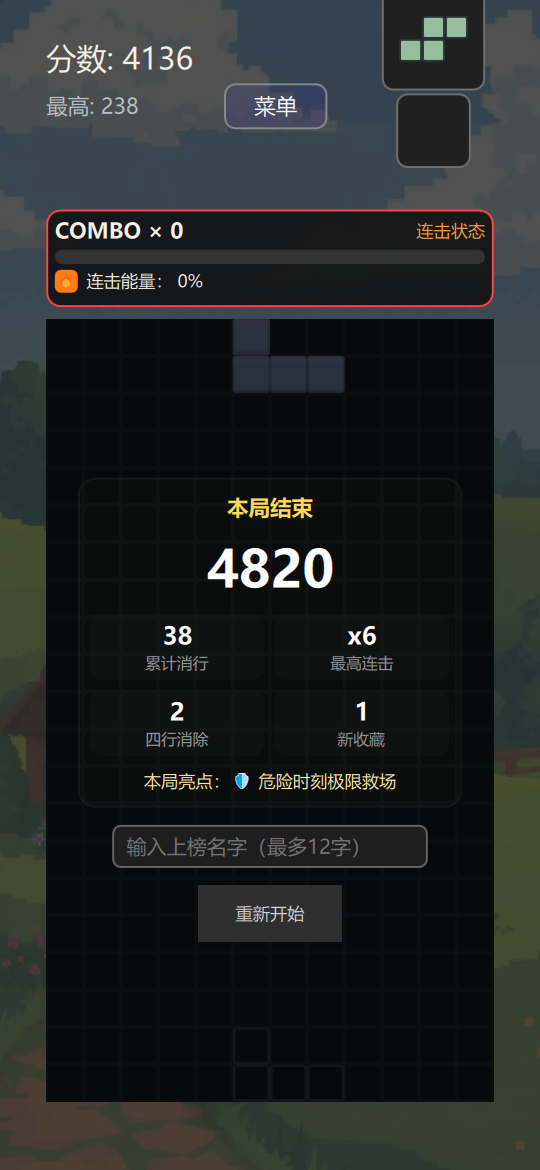
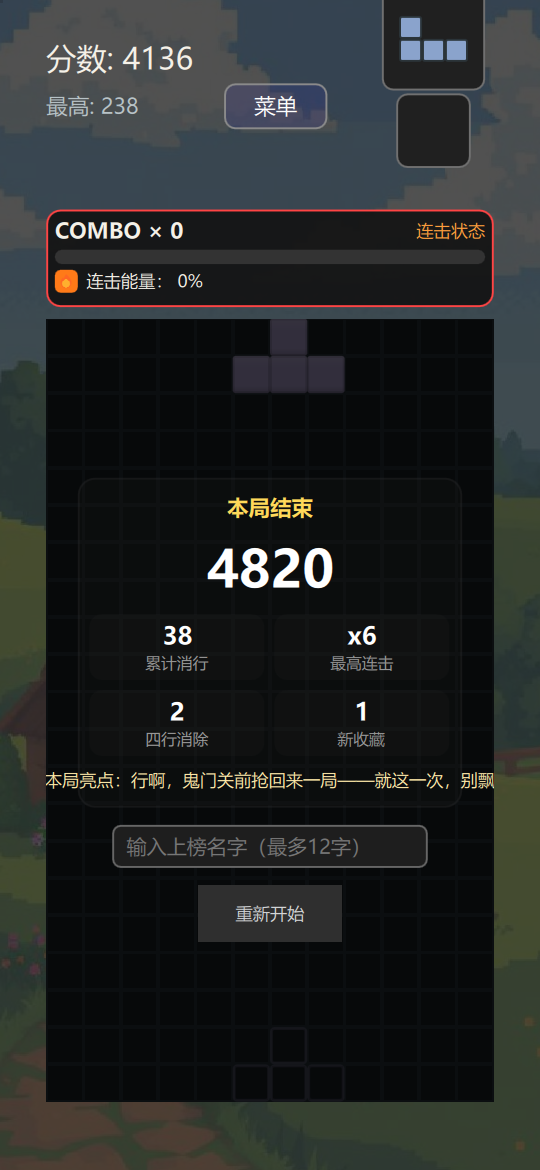
本局亮点改毒舌评语（用户要求恶毒/毒舌）：30条规则重排——真灾难(零行/短命局)最高优先→高光压制平庸(救场/B2B三连/多四消/大满贯先夸，别被时长梗抢戏)→菜但努力→平庸阴阳→傲慢表扬收尾；修残留拼接残渣与错字；recap实测截图；补丁v25

diff --git a/Main.qml b/Main.qml
@@ -1274,67 +1274,80 @@ ApplicationWindow {
         toastTimer.restart()
     }
     // 结算页「本局亮点」：取徽章之最（clutch > flow > precise），无徽章回退战绩句
-    // 结算页「本局亮点」：数据驱动的多档规则表，按稀有度/戏剧性从上往下短路取首条。
-    // 数据源全是本局统计（徽章/四消/B2B/连击/时长/消行/解锁），结算时即查即得
+    // 结算页「本局亮点」：毒舌评语规则表。排序 = 真惨（短命/零行）最优先 → 高光压制平庸嘲讽
+    // → 普通惨 → 平庸阴阳 → 傲慢表扬收尾。数据源全是本局统计，结算时即查即得
     readonly property var recapRules: [
-        { c: function() { return gameBadges.indexOf("clutch") !== -1 },
-          t: function() { return "🛡 危险时刻极限救场" } },
-        { c: function() { return b2bCount >= 3 },
-          t: function() { return "👑 B2B 三连击，教科书级发挥" } },
-        { c: function() { return tetrisCount >= 4 },
-          t: function() { return "🧱 四消机器，单局 " + tetrisCount + " 次四行消除" } },
-        { c: function() { return gameBadges.indexOf("flow") !== -1 && maxCombo >= 8 },
-          t: function() { return "🌊行云流水，最高 x" + maxCombo + " 不断档" } },
-        { c: function() { return gameBadges.indexOf("grandSlam") !== -1 },
-          t: function() { return "🌈 大满贯：1/2/3/4 消全数打穿" } },
-        { c: function() { return gameBadges.indexOf("flow") !== -1 },
-          t: function() { return "🌊 行云流水未涉险境" } },
-        { c: function() { return gameBadges.indexOf("precise") !== -1 },
-          t: function() { return "🎯 落位分毫不差" } },
-        { c: function() { return b2bCount >= 2 },
-          t: function() { return "💥 背靠背 x" + b2bCount + "，火力全开" } },
-        { c: function() { return tetrisCount >= 2 },
-          t: function() { return "🧱 打出 " + tetrisCount + " 次四行消除" } },
-        { c: function() { return playSeconds <= 90 && totalClearedLines >= 15 },
-          t: function() { return "⚡ 开局 90 秒消 " + totalClearedLines + " 行，闪电战" } },
-        { c: function() { return scoreTarget >= 20000 },
-          t: function() { return "💰 两万分巨局！" } },
-        { c: function() { return scoreTarget >= 10000 },
-          t: function() { return "💰 万分达成，手感滚烫" } },
-        { c: function() { return maxCombo >= 10 },
-          t: function() { return "🔥 连击 x" + maxCombo + "，连击大师本尊" } },
-        { c: function() { return maxCombo >= 5 },
-          t: function() { return "🔥 连击 x" + maxCombo + "，越战越勇" } },
-        { c: function() { return playSeconds >= 600 && totalClearedLines >= 40 },
-          t: function() { return "🕰 十分钟鏖战 " + totalClearedLines + " 行，耐力惊人" } },
-        { c: function() { return newUnlocks >= 2 },
-          t: function() { return "🖼 一局解锁 " + newUnlocks + " 张新背景" } },
-        { c: function() { return newUnlocks === 1 },
-          t: function() { return "🖼 解锁新背景收藏" } },
-        { c: function() { return maxCombo >= 3 },
-          t: function() { return "🔥 最高连击 x" + maxCombo } },
-        { c: function() { return tetrisCount === 1 },
-          t: function() { return "🧱 一次干脆利落的四行消除" } },
-        { c: function() { return b2bCount === 1 },
-          t: function() { return "💥 首次背靠背加成" } },
-        { c: function() { return totalClearedLines >= 20 },
-          t: function() { return "🧱 " + totalClearedLines + " 行稳定输出" } },
-        { c: function() { return playSeconds >= 300 },
-          t: function() { return "🕰 五分钟坚守，慢工出细活" } },
-        { c: function() { return scoreTarget >= 3000 },
-          t: function() { return "📈 " + scoreTarget + " 分，稳步上分" } },
-        { c: function() { return totalClearedLines === 0 && playSeconds >= 120 },
-          t: function() { return "🧍 开局不久便受阻，再接再厉" } },
+        // === 真灾难（无可争议，最优先）===
+        { c: function() { return totalClearedLines === 0 && playSeconds <= 20 },
+          t: function() { return "你搁这儿点外卖呢？方块还没热身就全军覆没了" } },
         { c: function() { return totalClearedLines === 0 },
-          t: function() { return "🌱 第一行从下一次开始" } },
-        { c: function() { return playSeconds <= 60 },
-          t: function() { return "⏱ 短平快的一局" } }
+          t: function() { return "0 行。棋盘表示它今天没被用过，建议卸载重装找找手感" } },
+        // === 高光压制平庸（有真高光先夸，别让时长梗抢戏）===
+        { c: function() { return gameBadges.indexOf("clutch") !== -1 },
+          t: function() { return "行啊，鬼门关前抢回来一局——就这一次，别飘" } },
+        { c: function() { return b2bCount >= 3 },
+          t: function() { return "B2B x" + b2bCount + "？今天键盘是充了电的吧" } },
+        { c: function() { return tetrisCount >= 4 },
+          t: function() { return tetrisCount + " 次四消，方块看了都想给你打工" } },
+        { c: function() { return gameBadges.indexOf("grandSlam") !== -1 },
+          t: function() { return "大满贯都打出来了，可算不像本人水准了" } },
+        { c: function() { return gameBadges.indexOf("flow") !== -1 && maxCombo >= 8 },
+          t: function() { return "x" + maxCombo + " 连击全程没进危险区——今天状态不错，明天估计没了" } },
+        { c: function() { return tetrisCount >= 2 },
+          t: function() { return tetrisCount + " 次四消，勉强算开了个窍" } },
+        { c: function() { return scoreTarget >= 20000 },
+          t: function() { return "两万分……行吧，这次允许你骄傲 3 秒钟" } },
+        { c: function() { return b2bCount >= 2 },
+          t: function() { return "背靠背 x" + b2bCount + "，有点东西但不多" } },
+        { c: function() { return gameBadges.indexOf("flow") !== -1 },
+          t: function() { return "行云流水，危险区都不认识你了" } },
+        // === 菜但努力（真惨之后，高光之前）===
+        { c: function() { return playSeconds <= 45 },
+          t: function() { return "这局短得像你的耐心。消了 " + totalClearedLines + " 行也好意思结算？" } },
+        { c: function() { return scoreTarget < 300 },
+          t: function() { return scoreTarget + " 分？排行榜底下给你留了座位的" } },
+        { c: function() { return totalClearedLines >= 1 && totalClearedLines < 5 },
+          t: function() { return "消了 " + totalClearedLines + " 行……进步空间比你的棋盘还空" } },
+        { c: function() { return maxCombo <= 1 && totalClearedLines >= 8 },
+          t: function() { return "消 " + totalClearedLines + " 行连击没上 2，你是一行一行挑着消的吗" } },
+        { c: function() { return playSeconds >= 300 && scoreTarget < 1500 },
+          t: function() { return "打这么久就这点分？效率低得让秒表都想退休" } },
+        { c: function() { return dangerLv >= 3 && tetrisCount === 0 },
+          t: function() { return "全程脸贴失败线蹦迪，全靠方块手下留情" } },
+        // === 平庸局（阴阳怪气区）===
+        { c: function() { return tetrisCount === 0 && totalClearedLines >= 10 },
+          t: function() { return "十几行了一个四消都没有，I 型方块见你绕道走" } },
+        { c: function() { return maxCombo >= 3 && maxCombo < 5 },
+          t: function() { return "连击 x" + maxCombo + "，刚找到感觉就断了，一如既往" } },
+        { c: function() { return newUnlocks === 0 && scoreTarget >= 1000 && scoreTarget < 3000 },
+          t: function() { return "不咸不淡 " + scoreTarget + " 分，背景都懒得为你解锁" } },
+        { c: function() { return gameBadges.indexOf("precise") !== -1 && totalClearedLines < 10 },
+          t: function() { return "落位是挺准的，可惜一共也没落几块" } },
+        // === 其余高光（傲慢表扬收尾）===
+        { c: function() { return playSeconds <= 90 && totalClearedLines >= 15 },
+          t: function() { return "90 秒消 " + totalClearedLines + " 行，手速可以，脑子跟上没有？" } },
+        { c: function() { return scoreTarget >= 10000 },
+          t: function() { return "万分到手，幸运女神今天确实路过你家" } },
+        { c: function() { return maxCombo >= 10 },
+          t: function() { return "连击 x" + maxCombo + "？嚯，今天手是自己的吗" } },
+        { c: function() { return maxCombo >= 5 },
+          t: function() { return "连击 x" + maxCombo + "，居然没手滑，太阳打西边出来了" } },
+        { c: function() { return gameBadges.indexOf("precise") !== -1 },
+          t: function() { return "精准落位，方块落得比你的计划还整齐" } },
+        { c: function() { return newUnlocks >= 2 },
+          t: function() { return "一局解锁 " + newUnlocks + " 张背景，收藏家倒是当得挺勤" } },
+        { c: function() { return totalClearedLines >= 20 },
+          t: function() { return totalClearedLines + " 行，稳是稳，就是稳得让人犯困" } },
+        { c: function() { return playSeconds >= 600 },
+          t: function() { return "磨了十分钟就这？耐力用来磨洋工倒是挺足" } },
+        { c: function() { return scoreTarget >= 3000 },
+          t: function() { return scoreTarget + " 分，凑合，我的标准向来很高" } }
     ]
     function recapHighlight() {
         for (var i = 0; i < recapRules.length; i++)
             if (recapRules[i].c())
                 return recapRules[i].t()
-        return "稳扎稳打的一局"
+        return "普通的一局，说你啥好呢"
     }
 
     // 震动三档：off 静音 / std 标准 / strong 加强（时长 1.8 倍）

diff --git a/leaderboard/apk/patch/Main.qml b/leaderboard/apk/patch/Main.qml
@@ -1274,67 +1274,80 @@ ApplicationWindow {
         toastTimer.restart()
     }
     // 结算页「本局亮点」：取徽章之最（clutch > flow > precise），无徽章回退战绩句
-    // 结算页「本局亮点」：数据驱动的多档规则表，按稀有度/戏剧性从上往下短路取首条。
-    // 数据源全是本局统计（徽章/四消/B2B/连击/时长/消行/解锁），结算时即查即得
+    // 结算页「本局亮点」：毒舌评语规则表。排序 = 真惨（短命/零行）最优先 → 高光压制平庸嘲讽
+    // → 普通惨 → 平庸阴阳 → 傲慢表扬收尾。数据源全是本局统计，结算时即查即得
     readonly property var recapRules: [
-        { c: function() { return gameBadges.indexOf("clutch") !== -1 },
-          t: function() { return "🛡 危险时刻极限救场" } },
-        { c: function() { return b2bCount >= 3 },
-          t: function() { return "👑 B2B 三连击，教科书级发挥" } },
-        { c: function() { return tetrisCount >= 4 },
-          t: function() { return "🧱 四消机器，单局 " + tetrisCount + " 次四行消除" } },
-        { c: function() { return gameBadges.indexOf("flow") !== -1 && maxCombo >= 8 },
-          t: function() { return "🌊行云流水，最高 x" + maxCombo + " 不断档" } },
-        { c: function() { return gameBadges.indexOf("grandSlam") !== -1 },
-          t: function() { return "🌈 大满贯：1/2/3/4 消全数打穿" } },
-        { c: function() { return gameBadges.indexOf("flow") !== -1 },
-          t: function() { return "🌊 行云流水未涉险境" } },
-        { c: function() { return gameBadges.indexOf("precise") !== -1 },
-          t: function() { return "🎯 落位分毫不差" } },
-        { c: function() { return b2bCount >= 2 },
-          t: function() { return "💥 背靠背 x" + b2bCount + "，火力全开" } },
-        { c: function() { return tetrisCount >= 2 },
-          t: function() { return "🧱 打出 " + tetrisCount + " 次四行消除" } },
-        { c: function() { return playSeconds <= 90 && totalClearedLines >= 15 },
-          t: function() { return "⚡ 开局 90 秒消 " + totalClearedLines + " 行，闪电战" } },
-        { c: function() { return scoreTarget >= 20000 },
-          t: function() { return "💰 两万分巨局！" } },
-        { c: function() { return scoreTarget >= 10000 },
-          t: function() { return "💰 万分达成，手感滚烫" } },
-        { c: function() { return maxCombo >= 10 },
-          t: function() { return "🔥 连击 x" + maxCombo + "，连击大师本尊" } },
-        { c: function() { return maxCombo >= 5 },
-          t: function() { return "🔥 连击 x" + maxCombo + "，越战越勇" } },
-        { c: function() { return playSeconds >= 600 && totalClearedLines >= 40 },
-          t: function() { return "🕰 十分钟鏖战 " + totalClearedLines + " 行，耐力惊人" } },
-        { c: function() { return newUnlocks >= 2 },
-          t: function() { return "🖼 一局解锁 " + newUnlocks + " 张新背景" } },
-        { c: function() { return newUnlocks === 1 },
-          t: function() { return "🖼 解锁新背景收藏" } },
-        { c: function() { return maxCombo >= 3 },
-          t: function() { return "🔥 最高连击 x" + maxCombo } },
-        { c: function() { return tetrisCount === 1 },
-          t: function() { return "🧱 一次干脆利落的四行消除" } },
-        { c: function() { return b2bCount === 1 },
-          t: function() { return "💥 首次背靠背加成" } },
-        { c: function() { return totalClearedLines >= 20 },
-          t: function() { return "🧱 " + totalClearedLines + " 行稳定输出" } },
-        { c: function() { return playSeconds >= 300 },
-          t: function() { return "🕰 五分钟坚守，慢工出细活" } },
-        { c: function() { return scoreTarget >= 3000 },
-          t: function() { return "📈 " + scoreTarget + " 分，稳步上分" } },
-        { c: function() { return totalClearedLines === 0 && playSeconds >= 120 },
-          t: function() { return "🧍 开局不久便受阻，再接再厉" } },
+        // === 真灾难（无可争议，最优先）===
+        { c: function() { return totalClearedLines === 0 && playSeconds <= 20 },
+          t: function() { return "你搁这儿点外卖呢？方块还没热身就全军覆没了" } },
         { c: function() { return totalClearedLines === 0 },
-          t: function() { return "🌱 第一行从下一次开始" } },
-        { c: function() { return playSeconds <= 60 },
-          t: function() { return "⏱ 短平快的一局" } }
+          t: function() { return "0 行。棋盘表示它今天没被用过，建议卸载重装找找手感" } },
+        // === 高光压制平庸（有真高光先夸，别让时长梗抢戏）===
+        { c: function() { return gameBadges.indexOf("clutch") !== -1 },
+          t: function() { return "行啊，鬼门关前抢回来一局——就这一次，别飘" } },
+        { c: function() { return b2bCount >= 3 },
+          t: function() { return "B2B x" + b2bCount + "？今天键盘是充了电的吧" } },
+        { c: function() { return tetrisCount >= 4 },
+          t: function() { return tetrisCount + " 次四消，方块看了都想给你打工" } },
+        { c: function() { return gameBadges.indexOf("grandSlam") !== -1 },
+          t: function() { return "大满贯都打出来了，可算不像本人水准了" } },
+        { c: function() { return gameBadges.indexOf("flow") !== -1 && maxCombo >= 8 },
+          t: function() { return "x" + maxCombo + " 连击全程没进危险区——今天状态不错，明天估计没了" } },
+        { c: function() { return tetrisCount >= 2 },
+          t: function() { return tetrisCount + " 次四消，勉强算开了个窍" } },
+        { c: function() { return scoreTarget >= 20000 },
+          t: function() { return "两万分……行吧，这次允许你骄傲 3 秒钟" } },
+        { c: function() { return b2bCount >= 2 },
+          t: function() { return "背靠背 x" + b2bCount + "，有点东西但不多" } },
+        { c: function() { return gameBadges.indexOf("flow") !== -1 },
+          t: function() { return "行云流水，危险区都不认识你了" } },
+        // === 菜但努力（真惨之后，高光之前）===
+        { c: function() { return playSeconds <= 45 },
+          t: function() { return "这局短得像你的耐心。消了 " + totalClearedLines + " 行也好意思结算？" } },
+        { c: function() { return scoreTarget < 300 },
+          t: function() { return scoreTarget + " 分？排行榜底下给你留了座位的" } },
+        { c: function() { return totalClearedLines >= 1 && totalClearedLines < 5 },
+          t: function() { return "消了 " + totalClearedLines + " 行……进步空间比你的棋盘还空" } },
+        { c: function() { return maxCombo <= 1 && totalClearedLines >= 8 },
+          t: function() { return "消 " + totalClearedLines + " 行连击没上 2，你是一行一行挑着消的吗" } },
+        { c: function() { return playSeconds >= 300 && scoreTarget < 1500 },
+          t: function() { return "打这么久就这点分？效率低得让秒表都想退休" } },
+        { c: function() { return dangerLv >= 3 && tetrisCount === 0 },
+          t: function() { return "全程脸贴失败线蹦迪，全靠方块手下留情" } },
+        // === 平庸局（阴阳怪气区）===
+        { c: function() { return tetrisCount === 0 && totalClearedLines >= 10 },
+          t: function() { return "十几行了一个四消都没有，I 型方块见你绕道走" } },
+        { c: function() { return maxCombo >= 3 && maxCombo < 5 },
+          t: function() { return "连击 x" + maxCombo + "，刚找到感觉就断了，一如既往" } },
+        { c: function() { return newUnlocks === 0 && scoreTarget >= 1000 && scoreTarget < 3000 },
+          t: function() { return "不咸不淡 " + scoreTarget + " 分，背景都懒得为你解锁" } },
+        { c: function() { return gameBadges.indexOf("precise") !== -1 && totalClearedLines < 10 },
+          t: function() { return "落位是挺准的，可惜一共也没落几块" } },
+        // === 其余高光（傲慢表扬收尾）===
+        { c: function() { return playSeconds <= 90 && totalClearedLines >= 15 },
+          t: function() { return "90 秒消 " + totalClearedLines + " 行，手速可以，脑子跟上没有？" } },
+        { c: function() { return scoreTarget >= 10000 },
+          t: function() { return "万分到手，幸运女神今天确实路过你家" } },
+        { c: function() { return maxCombo >= 10 },
+          t: function() { return "连击 x" + maxCombo + "？嚯，今天手是自己的吗" } },
+        { c: function() { return maxCombo >= 5 },
+          t: function() { return "连击 x" + maxCombo + "，居然没手滑，太阳打西边出来了" } },
+        { c: function() { return gameBadges.indexOf("precise") !== -1 },
+          t: function() { return "精准落位，方块落得比你的计划还整齐" } },
+        { c: function() { return newUnlocks >= 2 },
+          t: function() { return "一局解锁 " + newUnlocks + " 张背景，收藏家倒是当得挺勤" } },
+        { c: function() { return totalClearedLines >= 20 },
+          t: function() { return totalClearedLines + " 行，稳是稳，就是稳得让人犯困" } },
+        { c: function() { return playSeconds >= 600 },
+          t: function() { return "磨了十分钟就这？耐力用来磨洋工倒是挺足" } },
+        { c: function() { return scoreTarget >= 3000 },
+          t: function() { return scoreTarget + " 分，凑合，我的标准向来很高" } }
     ]
     function recapHighlight() {
         for (var i = 0; i < recapRules.length; i++)
             if (recapRules[i].c())
                 return recapRules[i].t()
-        return "稳扎稳打的一局"
+        return "普通的一局，说你啥好呢"
     }
 
     // 震动三档：off 静音 / std 标准 / strong 加强（时长 1.8 倍）
